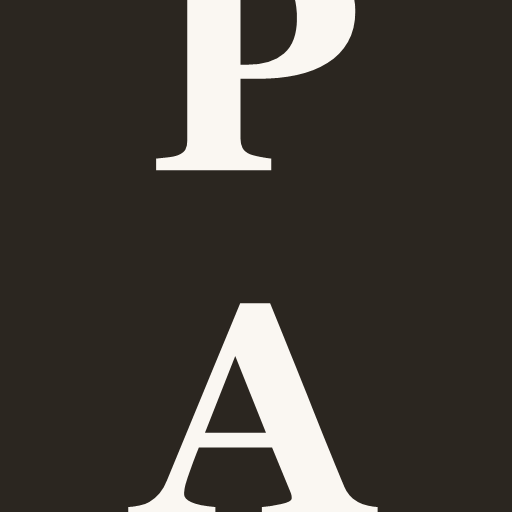
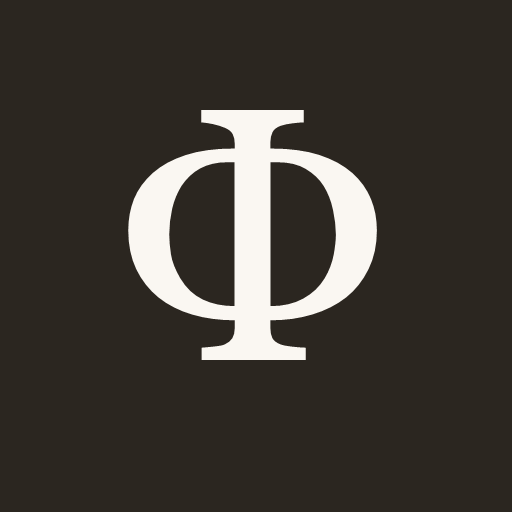
Âncora de leitura no zoom, sumário reordenado, ícone Φ e instalação móvel
- Mudar a fonte (A−/A+, pinch, ctrl+roda) não desloca mais o ponto de
  leitura: o elemento visível no alto da tela é ancorado e devolvido à
  mesma posição após o reflow (flushSync + scrollBy)
- Sumário: título do livro primeiro; as ações (recolher/expandir/
  copiar/aparência) ficam abaixo dele, logo acima dos capítulos
- Ícones do app trocados para a letra grega Φ (192/512 + apple-touch)
- Instalação no celular destravada: manifest ganhou id/start_url/scope
  (critério do Chrome para oferecer "instalar"); favicon,
  apple-touch-icon e metas Apple para o "Adicionar à Tela de Início"
  do iOS

Changed region(s): [[0.25, 0.0, 0.75, 1.0]]

diff --git a/src/components/Sidebar.tsx b/src/components/Sidebar.tsx
@@ -49,6 +49,10 @@ export function Sidebar({
   const [expanded, setExpanded] = useState<Set<string>>(new Set())
   const groups = buildGroups(headings)
 
+  // Título do livro (h1) fica acima das ações; seções/capítulos abaixo
+  const titleGroup = groups.length && groups[0].heading.depth === 1 ? groups[0] : null
+  const sectionGroups = titleGroup ? groups.slice(1) : groups
+
   const toggle = (id: string) => {
     setExpanded((prev) => {
       const next = new Set(prev)
@@ -58,16 +62,62 @@ export function Sidebar({
     })
   }
 
+  const renderGroup = ({ heading, children }: TocGroup) => (
+    <li key={heading.id}>
+      <div className="toc-row">
+        <button
+          className={`toc-item toc-depth-${heading.depth}`}
+          onClick={() => onNavigate(heading.id)}
+        >
+          {heading.text}
+        </button>
+        {children.length > 0 && (
+          <button
+            className="toc-toggle"
+            onClick={() => toggle(heading.id)}
+            aria-expanded={expanded.has(heading.id)}
+            aria-label={
+              expanded.has(heading.id) ? `Recolher ${heading.text}` : `Expandir ${heading.text}`
+            }
+          >
+            {expanded.has(heading.id) ? '▾' : '▸'}
+          </button>
+        )}
+      </div>
+      {children.length > 0 && expanded.has(heading.id) && (
+        <ul className="toc-children">
+          {children.map((child) => (
+            <li key={child.id}>
+              <button
+                className={`toc-item toc-depth-${child.depth}`}
+                onClick={() => onNavigate(child.id)}
+              >
+                {child.text}
+              </button>
+            </li>
+          ))}
+        </ul>
+      )}
+    </li>
+  )
+
   return (
     <>
       {open && <div className="sidebar-backdrop" onClick={onClose} aria-hidden="true" />}
-      <nav className={`sidebar${open ? ' sidebar-open' : ''}`} aria-label="Sumário" aria-hidden={!open}>
+      <nav
+        className={`sidebar${open ? ' sidebar-open' : ''}`}
+        aria-label="Sumário"
+        aria-hidden={!open}
+      >
         <div className="sidebar-header">
           <h2>Sumário</h2>
           <button className="sidebar-close" onClick={onClose} aria-label="Fechar sumário">
             ✕
           </button>
         </div>
+
+        {titleGroup && <ul className="toc toc-title">{renderGroup(titleGroup)}</ul>}
+
         <div className="toc-actions">
           <button className="toc-action" onClick={onCollapseAll}>
             Recolher tudo
@@ -82,47 +132,9 @@ export function Sidebar({
             Aparência
           </button>
         </div>
+
         <ul className="toc">
-          {groups.map(({ heading, children }) => (
-            <li key={heading.id}>
-              <div className="toc-row">
-                <button
-                  className={`toc-item toc-depth-${heading.depth}`}
-                  onClick={() => onNavigate(heading.id)}
-                >
-                  {heading.text}
-                </button>
-                {children.length > 0 && (
-                  <button
-                    className="toc-toggle"
-                    onClick={() => toggle(heading.id)}
-                    aria-expanded={expanded.has(heading.id)}
-                    aria-label={
-                      expanded.has(heading.id)
-                        ? `Recolher ${heading.text}`
-                        : `Expandir ${heading.text}`
-                    }
-                  >
-                    {expanded.has(heading.id) ? '▾' : '▸'}
-                  </button>
-                )}
-              </div>
-              {children.length > 0 && expanded.has(heading.id) && (
-                <ul className="toc-children">
-                  {children.map((child) => (
-                    <li key={child.id}>
-                      <button
-                        className={`toc-item toc-depth-${child.depth}`}
-                        onClick={() => onNavigate(child.id)}
-                      >
-                        {child.text}
-                      </button>
-                    </li>
-                  ))}
-                </ul>
-              )}
-            </li>
-          ))}
+          {sectionGroups.map(renderGroup)}
 
           {names.length > 0 && (
             <li>

diff --git a/src/components/FontControls.tsx b/src/components/FontControls.tsx
@@ -1,4 +1,5 @@
 import { useEffect, useState, type RefObject } from 'react'
+import { flushSync } from 'react-dom'
 
 const STORAGE_KEY = 'reading-font-px'
 const DEFAULT_PX = 18
@@ -8,6 +9,30 @@ const MAX_PX = 256
 const STEP = 1.125
 
 const clamp = (v: number) => Math.min(MAX_PX, Math.max(MIN_PX, Math.round(v)))
+
+/**
+ * Mudar a fonte refui o texto e deslocaria o ponto de leitura.
+ * Ancora o elemento visível no alto da tela e o devolve à mesma
+ * posição depois do reflow: o leitor continua exatamente onde estava.
+ */
+function withReadingAnchor(update: () => void) {
+  const probeY = Math.min(160, window.innerHeight / 3)
+  let anchor: Element | null = null
+  for (const el of document.elementsFromPoint(window.innerWidth / 2, probeY)) {
+    if (el !== document.body && el.closest('.reader-body')) {
+      anchor = el
+      break
+    }
+  }
+  if (!anchor) {
+    update()
+    return
+  }
+  const before = anchor.getBoundingClientRect().top
+  flushSync(update)
+  const after = anchor.getBoundingClientRect().top
+  window.scrollBy({ top: after - before })
+}
 
 export function useFontSize() {
   const [px, setPx] = useState<number>(() => {
@@ -21,9 +46,9 @@ export function useFontSize() {
 
   return {
     px,
-    setPx: (v: number) => setPx(clamp(v)),
-    decrease: () => setPx((v) => clamp(v / STEP)),
-    increase: () => setPx((v) => clamp(v * STEP)),
+    setPx: (v: number) => withReadingAnchor(() => setPx(clamp(v))),
+    decrease: () => withReadingAnchor(() => setPx((v) => clamp(v / STEP))),
+    increase: () => withReadingAnchor(() => setPx((v) => clamp(v * STEP))),
   }
 }
 

diff --git a/index.html b/index.html
@@ -5,6 +5,13 @@
     <!-- Sem user-scalable=no nem maximum-scale: pinch-to-zoom nativo é requisito (baixa visão) -->
     <meta name="viewport" content="width=device-width, initial-scale=1" />
     <meta name="theme-color" content="#2b2620" />
+    <link rel="icon" type="image/png" href="/icon-192.png" />
+    <!-- iOS não instala sozinho: Compartilhar → Adicionar à Tela de Início -->
+    <link rel="apple-touch-icon" href="/apple-touch-icon.png" />
+    <meta name="mobile-web-app-capable" content="yes" />
+    <meta name="apple-mobile-web-app-capable" content="yes" />
+    <meta name="apple-mobile-web-app-status-bar-style" content="black" />
+    <meta name="apple-mobile-web-app-title" content="Leitura" />
     <title>Leitura — Pedra Angular</title>
   </head>
   <body>

diff --git a/vite.config.ts b/vite.config.ts
@@ -18,6 +18,11 @@ export default defineConfig({
         short_name: 'Leitura',
         description: 'Leitor offline do corpus Pedra Angular e Sapiencial',
         lang: 'pt-BR',
+        // Relativos ao manifest: funcionam em / (dev) e /app-leitura/ (Pages).
+        // Sem start_url o Chrome não oferece a instalação.
+        id: '.',
+        start_url: '.',
+        scope: '.',
         display: 'standalone',
         theme_color: '#2b2620',
         background_color: '#faf7f2',

diff --git a/src/styles.css b/src/styles.css
@@ -531,6 +531,10 @@ button {
   padding: 0.5rem 0 2rem;
 }
 
+.toc-title {
+  padding: 0.25rem 0 0;
+}
+
 .toc-row {
   display: flex;
   align-items: stretch;